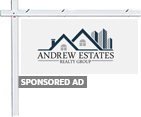
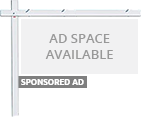
added: homepage advert placement

Changed region(s): [[0.2553, 0.2308, 0.8227, 0.5385]]

diff --git a/app/Http/Controllers/MainController.php b/app/Http/Controllers/MainController.php
@@ -9,6 +9,7 @@ use App\Suburbs;
 use App\Reviews;
 use App\Role;
 use App\UserMeta;
+use App\Advertisement;
 use Response;
 use Mail;
 
@@ -38,6 +39,47 @@ class MainController extends Controller
         } else { 
             return redirect(env('APP_URL'));
         }
+    }
+
+    function home(){
+
+        $ads = Advertisement::get();
+        // $numAds =  count($ads['728x90'] );
+        // $index = rand(0, $numAds);
+        $x = 0; $z = 0; $y = 0;
+
+        foreach ($ads  as $ad) {
+            switch ($ad->type) {
+                case '728x90':
+                    $advert[$ad->type][$x]['url'] = $ad->image_path;
+                    $x++;
+                    break;
+                case '141x117':
+                    $advert[$ad->type][$z]['url'] = $ad->image_path;
+                    $z++;
+                    break;
+                default:
+                    $advert[$ad->type][$y]['url'] = $ad->image_path;
+                    $y++;
+                    break;
+            }
+            
+        }
+
+        $data = array();
+
+        if(isset($advert['141x117'])){
+            $numAds =  count($advert['141x117']) - 1;
+            $index = rand(0, $numAds);
+            $data['141x117'] = $advert['141x117'][$index ];
+
+        } else if(isset($advert['728x90'])){
+            $numAds =  count($advert['728x90']) - 1;
+            $index = rand(0, $numAds);
+            $data['728x90'] = $advert['728x90'][$index ]; 
+        }
+
+        return view('home')->with('advert', $data);
     }
 
     function agency(){

diff --git a/resources/views/home.blade.php b/resources/views/home.blade.php
@@ -126,14 +126,20 @@
           </div>
         </div>
         <div class="banner-ad">
-          <img src="assets/banner-ad.png" alt="Banner Ad">
+          @if(isset($advert['141x117']))
+            <img src="{{$advert['141x117']['url']}}" alt="Banner Ad">
+          @else
+            <img src="assets/banner-ad.png" alt="Banner Ad">
+          @endif
         </div>
       </div>
     </section>
 
     <div class="horizontal-bg"></div>
     <section id="advertisement-banner">
-      <img src="assets/banner-test.jpg" alt="Banner Description Here">
+      @if(isset($advert['728x90']))
+        <img src="{{$advert['728x90']['url']}}" alt="Banner Ad">
+      @endif
     </section>
 
     <section id="how-it-works" class="home">

diff --git a/routes/web.php b/routes/web.php
@@ -16,9 +16,7 @@ Route::group(['prefix' => ''], function () {
     Route::get('/profile', 'MainController@dashboard');
 
 
-    Route::get('/', function () {
-        return view('home');
-    });
+    Route::get('/', 'MainController@home');
 
     Route::get('/home', function () {
         return view('general.home');
